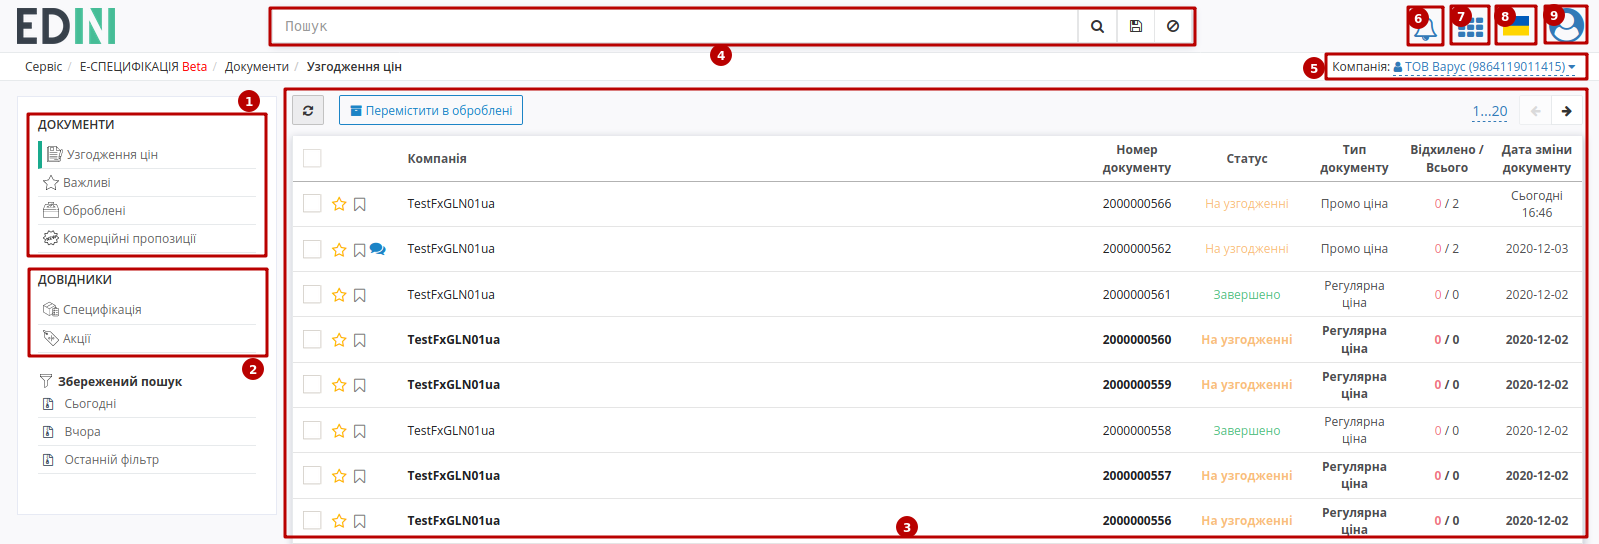
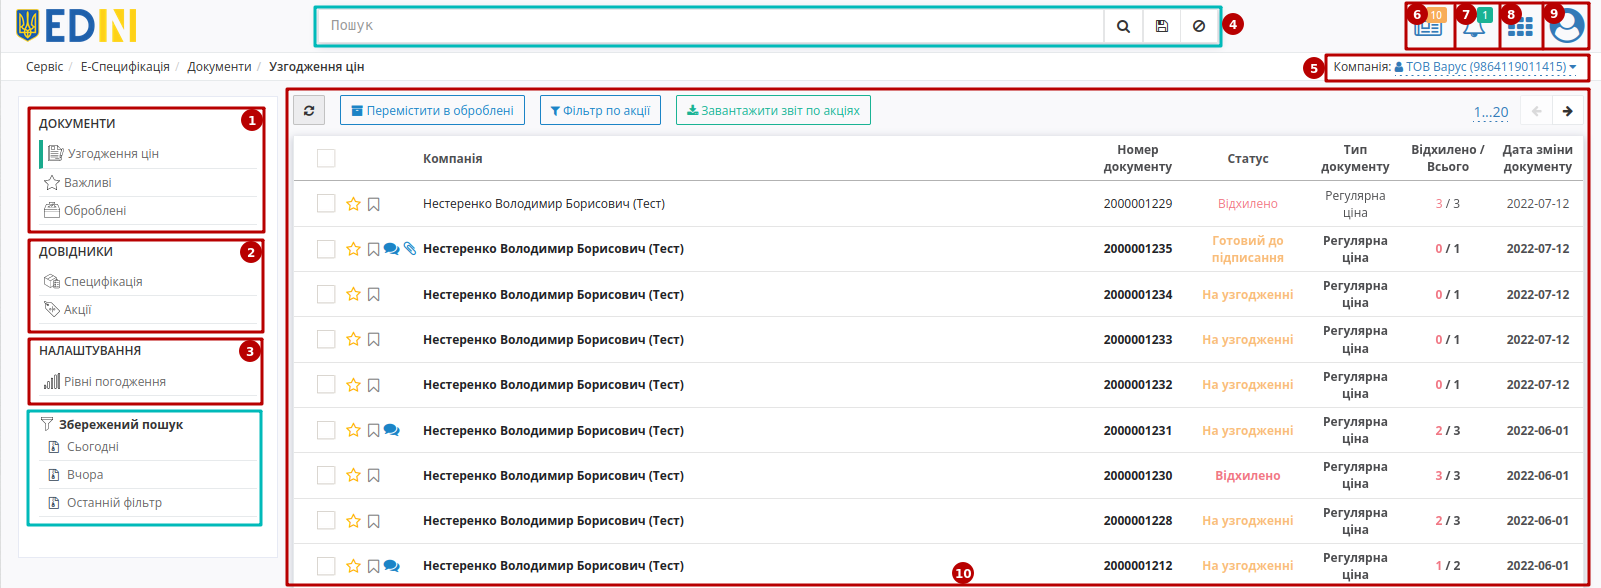
e_spec

Changed region(s): [[0.0, 0.0, 1.0, 1.0]]

diff --git a/docs/E_SPEC/EDIN_2_0/Instructions_2_0/E_Spec_Instruction_merezha.rst b/docs/E_SPEC/EDIN_2_0/Instructions_2_0/E_Spec_Instruction_merezha.rst
@@ -72,15 +72,40 @@
 
 1. Розділ для роботи з документами (узгодження цін, комерційні пропозиції);
 2. Розділ для роботи з довідниками (специфікації, контракти, робота з акційними пропозиціями);
-3. Журнал документів;
-4. Рядок пошуку документів за різними критеріями (детальніше в розділі "`Пошук <https://wiki.edin.ua/uk/latest/E_SPEC/EDIN_2_0/Instructions_2_0/E_Spec_Instruction_merezha.html#search>`__");
+3. `Налаштування рівнів погодження <https://wiki.edin.ua/uk/latest/E_SPEC/EDIN_2_0/Instructions_2_0/E_Spec_Instruction_merezha.html#settings>`__ документів в мережі;
+4. `Пошуковий рядок <https://wiki.edin.ua/uk/latest/E_SPEC/EDIN_2_0/Instructions_2_0/E_Spec_Instruction_merezha.html#search>`__;
 5. Меню вибору GLN організації, від імені якої буде відбуватись взаємодія з контрагентами;
-6. Історія системних повідомлень впродовж користувацької сесії;
-7. Перехід в меню сервісів;
-8. Вибір мови інтерфейсу;
+6. `Новини <https://wiki.edin.ua/uk/latest/general_2_0/rabota_s_platformoj_EDIN_2.0.html#news>`__;
+7. `Повідомлення <https://wiki.edin.ua/uk/latest/general_2_0/rabota_s_platformoj_EDIN_2.0.html#messages>`__;
+8. Меню сервісів - відкриває меню для переходу в сервіси платформи;
 9. `Особистий кабінет <https://wiki.edin.ua/uk/latest/Personal_Cabinet/PCInstruction.html>`__, `налаштування користувача <https://wiki.edin.ua/uk/latest/general_2_0/rabota_s_platformoj_EDIN_2.0.html#pers-settings>`__ та вихід з платформи. 
+10. Журнал документів.
 
-3 Актуальні специфікації
+.. _settings:
+
+3 Налаштування рівнів погодження
+===============================================================
+
+Налаштування рівнів погодження здійснюються для користувачів мережі індивідуально, тому при переході у розділі **НАЛАШТУВАННЯ** -> **Рівні погодження** відобразиться перелік всіх **користувачів** мережі (детальніше про `користувачів <https://wiki.edin.ua/uk/latest/Personal_Cabinet/PCInstruction.html#users>`__):
+
+.. image:: /E_SPEC/EDIN_2_0/Instructions_2_0/pics_E_Spec_Instruction_merezha/E_Spec_Instruction_merezha_36.png
+   :align: center
+
+В списку вказується ПІБ, e-mail, логін коистувача, а також доступ до сервісу **Е-СПЕЦИФІКАЦІЯ**. За допомогою лівої кнопки миші по коистувачу відбувається перехід до його налаштувань:
+
+.. image:: /E_SPEC/EDIN_2_0/Instructions_2_0/pics_E_Spec_Instruction_merezha/E_Spec_Instruction_merezha_37.png
+   :align: center
+
+Можливо налаштувати **Категорії товарів, які будуть відображатися користувачеві** (1), **Статуси документів, доступні до перегляду** (2), а також **Дії узгодження для кожного підтипу документа (за статусом)** `"Товарне узгодження" (AGREEM) <https://wiki.edin.ua/uk/latest/E_SPEC/EDIN_2_0/XML/XML_structure.html#agreem>`__ (3) - детальніше в розділі `Робота з документами <https://wiki.edin.ua/uk/latest/E_SPEC/EDIN_2_0/Instructions_2_0/E_Spec_Instruction_merezha.html#work-with-docs>`__.
+
+Після того, як налаштування були змінені їх потрібно **"Зберегти"**!
+
+.. image:: /E_SPEC/EDIN_2_0/Instructions_2_0/pics_E_Spec_Instruction_merezha/E_Spec_Instruction_merezha_38.png
+   :align: center
+
+.. _dictionary:
+
+4 Актуальні специфікації
 ===============================================================
 
 Після того як по FTP буде вивантажено товарний довідник (контракт, специфікацію) у розділі **ДОВІДНИКИ** у вкладці **Специфікація** відобразиться перелік **Постачальників** та діючих специфікацій з ними. Усі специфікації зручно згруповані по назві **Постачальника**. Потрібно обрати **Постачальника** та **"Перейти"** в одну з актуальних специфікацій:
@@ -93,8 +118,13 @@
 .. image:: /E_SPEC/EDIN_2_0/Instructions_2_0/pics_E_Spec_Instruction_merezha/E_Spec_Instruction_merezha_02.png
    :align: center
 
-4 Робота з документами 
+.. _work-with-docs:
+
+5 Робота з документами 
 ========================
+
+.. hint::
+   Перед початком роботи переконайтесь, що для всіх користувачів виконані відповідні `Налаштування <https://wiki.edin.ua/uk/latest/E_SPEC/EDIN_2_0/Instructions_2_0/E_Spec_Instruction_merezha.html#settings>`__! 
 
 Для зручної роботи блок **"ДОКУМЕНТИ"** має 3 розділи для роботи з узгодженнями:
 
@@ -102,7 +132,7 @@
    :align: center
 
 * **Узгодження цін** - містить весь список Товарних узгодженнь, тобто створених документів-пропозицій щодо зміни цін.
-* **Важливі** - містить документи, що були відмічені користувачем, як важливі (іконка зірочки |неважливий|->|важливий|).
+* **Важливі** - містить документи, що були відмічені користувачем, як важливі (іконка зірочки |неважливий| -> |важливий| ).
 * **Оброблені** - містить документи, що були переміщені користувачем (кнопки **"Перемістити в оброблені"** / **"Відновити з оброблених"**)
 
 .. note::
@@ -145,7 +175,7 @@
 .. note::
     Процес узгодження проходить кілька етапів. Кількість етапів узгодження залежить від налаштуваннь мережі, тобто кожне узгодження унікальне. Кількість етапів варіюється від двох до п'яти. Для налаштування етапів зверніться до свого менеджера АТС або у Службу підтримки.
 
-4.1 Обробка товарного узгодження категорійним менеджером (1-ий етап)
+5.1 Обробка товарного узгодження категорійним менеджером (1-ий етап)
 ----------------------------------------------------------------------------
 
 Нові узгодження, відправлені **Постачальником**, знаходяться у статусі **"На погодженні"**. При переході в документ (через номер документа) відкривається форма документа-пропозиції:
@@ -184,7 +214,7 @@
 .. note::
     **Постачальник** може сформувати пропозиції на зміну *регулярної ціни зі знижкою*, в залежності від індивідуальних налаштувань мережі. У такому випадку таблична частина з позиціями буде розширена додатковими стовбцями з можливістю вказати ціну зі знижкою. У таких пропозиціях мережа може знінювати поле "**Кількість**". 
 
-4.2 Обробка Товарного узгодження Керівником відділу (2-ий етап) 
+5.2 Обробка Товарного узгодження Керівником відділу (2-ий етап) 
 -------------------------------------------------------------------
 
 Документ Товарне узгодження, узгоджений Категорійним менеджером на першому етапі, надходить на наступний зі статусом **Узгодженно** (статус пропозиції що розглядається, може відрізнятися, бо залежить від індивідуальних налаштувань етапів мережі).
@@ -209,7 +239,7 @@
    .. image:: /E_SPEC/EDIN_2_0/Instructions_2_0/pics_E_Spec_Instruction_merezha/E_Spec_Instruction_merezha_34.png
       :align: center
 
-4.3 Обробка і підписання Товарного узгодження Комерційним директором (3-ій етап)
+5.3 Обробка і підписання Товарного узгодження Комерційним директором (3-ій етап)
 ------------------------------------------------------------------------------------
 
 .. note::
@@ -265,7 +295,7 @@
 
 .. _promotion:
 
-5 Акції 
+6 Акції 
 ========================
 
 .. початок блоку для Promotions
@@ -279,7 +309,7 @@
 
 .. кінець блоку для Promotions
 
-6 Додатковий функціонал
+7 Додатковий функціонал
 ========================
 
 .. _search:
@@ -343,9 +373,9 @@
 
 Документ що містить коментар позначається в журналі документів символом |чат|.
 
-----------------------------------
-
-.. include:: kontakti.rst
+----------------------------
+   
+.. include:: /_constant/kontakti.rst
 
 
 

diff --git a/docs/E_SPEC/EDIN_2_0/Instructions_2_0/E_Spec_Іnstruction_postachalnik.rst b/docs/E_SPEC/EDIN_2_0/Instructions_2_0/E_Spec_Іnstruction_postachalnik.rst
@@ -80,12 +80,12 @@
 1. Розділ для роботи з документами (узгодження цін, комерційні пропозиції);
 2. Розділ для роботи з довідниками (специфікації, контракти, робота з акційними пропозиціями);
 3. Журнал документів;
-4. Рядок пошуку документів за різними критеріями (детальніше в розділі "`Пошук <https://wiki.edin.ua/uk/latest/E_SPEC/EDIN_2_0/Instructions_2_0/E_Spec_Іnstruction_postachalnik.html#search>`__");
+4. `Пошуковий рядок <https://wiki.edin.ua/uk/latest/E_SPEC/EDIN_2_0/Instructions_2_0/E_Spec_Іnstruction_postachalnik.html#search>`__;
 5. Меню вибору GLN організації, від імені якої буде відбуватись взаємодія з контрагентами;
-6. Історія системних повідомлень впродовж користувацької сесії;
-7. Перехід в меню сервісів;
-8. Вибір мови інтерфейсу;
-9. `Особистий кабінет <https://wiki.edin.ua/uk/latest/Personal_Cabinet/PCInstruction.html>`__, `налаштування користувача <https://wiki.edin.ua/uk/latest/general_2_0/rabota_s_platformoj_EDIN_2.0.html#pers-settings>`__ та вихід з платформи. 
+6. `Новини <https://wiki.edin.ua/uk/latest/general_2_0/rabota_s_platformoj_EDIN_2.0.html#news>`__;
+7. `Повідомлення <https://wiki.edin.ua/uk/latest/general_2_0/rabota_s_platformoj_EDIN_2.0.html#messages>`__;
+8. Меню сервісів - відкриває меню для переходу в сервіси платформи;
+9. `Особистий кабінет <https://wiki.edin.ua/uk/latest/Personal_Cabinet/PCInstruction.html>`__, `налаштування користувача <https://wiki.edin.ua/uk/latest/general_2_0/rabota_s_platformoj_EDIN_2.0.html#pers-settings>`__ та вихід з платформи.
 
 3 Товарне узгодження
 ===============================================================
@@ -290,7 +290,7 @@
    :align: center
 
 * **Узгодження цін** - містить весь список Товарних узгодженнь, тобто створених документів-пропозицій щодо зміни цін.
-* **Важливі** - містить документи, що були відмічені користувачем, як важливі (іконка зірочки |неважливий|->|важливий|).
+* **Важливі** - містить документи, що були відмічені користувачем, як важливі (іконка зірочки |неважливий| -> |важливий| ).
 * **Оброблені** - містить документи, що були переміщені користувачем (кнопки **"Перемістити в оброблені"** / **"Відновити з оброблених"**)
 
 .. note::
@@ -460,7 +460,7 @@
 
 Документ що містить коментар позначається в журналі документів символом |чат|.
 
-----------------------------------
-
-.. include:: kontakti.rst
+----------------------------
+   
+.. include:: /_constant/kontakti.rst
 
